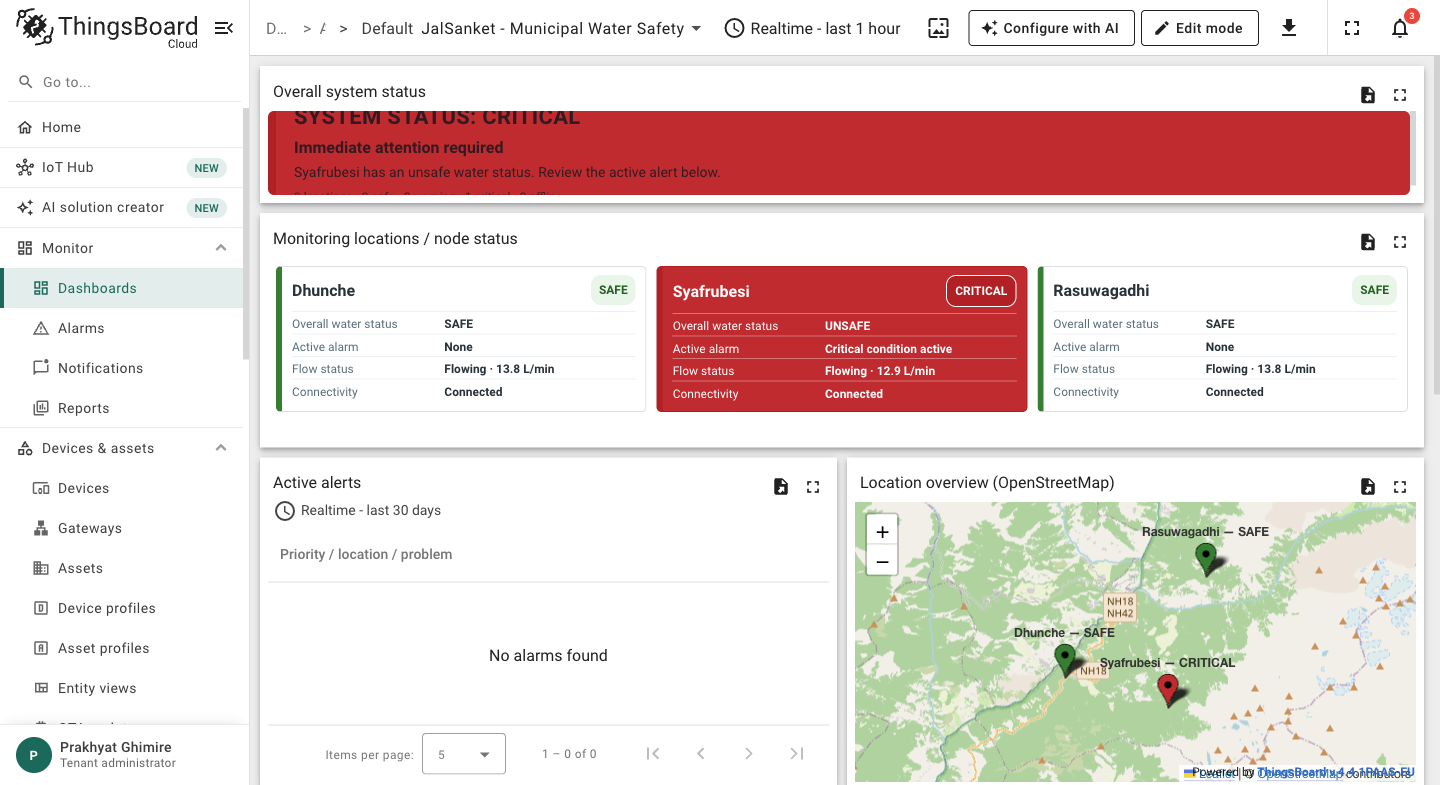
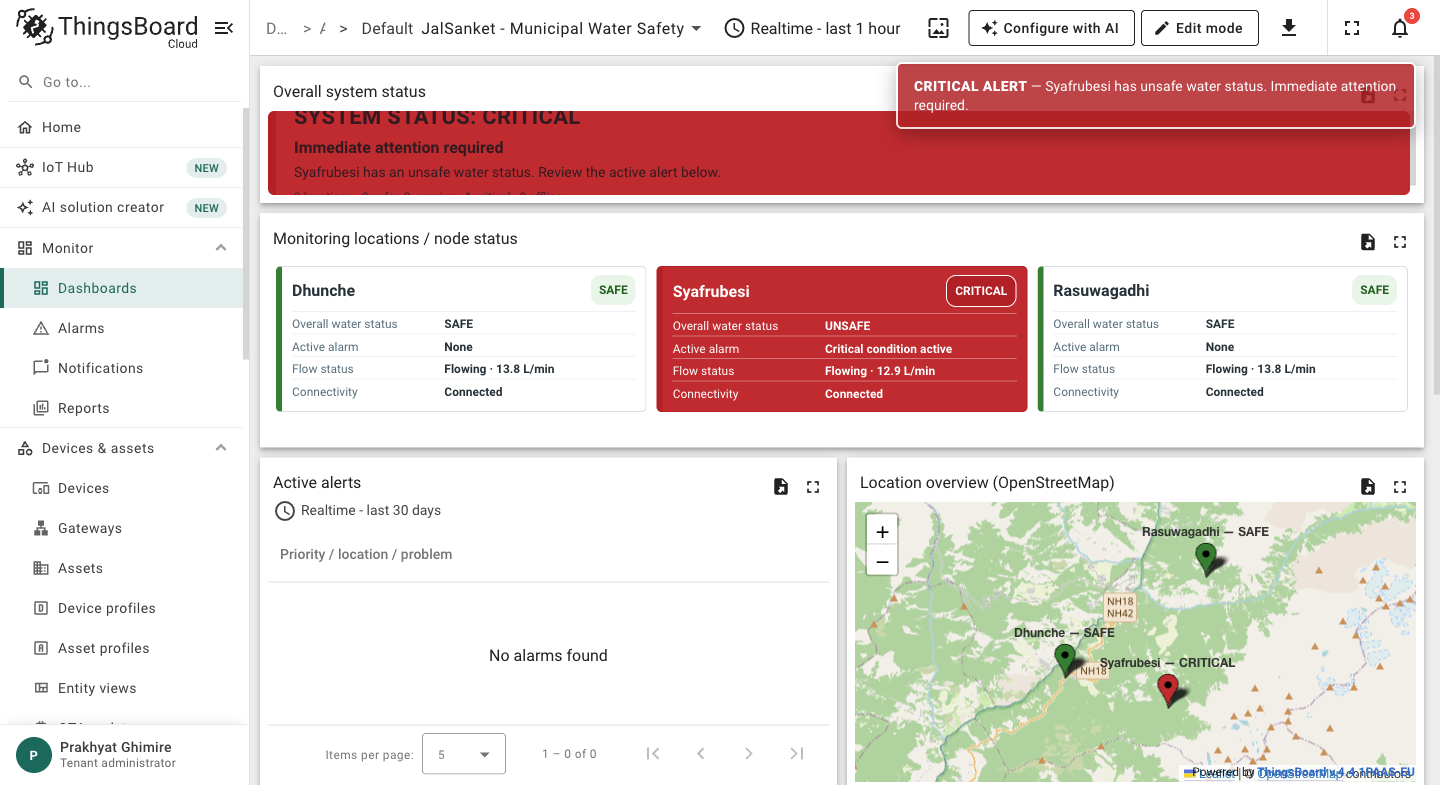
docs(dashboard): document critical alert overlay

Changed region(s): [[0.5938, 0.0611, 1.0, 0.1834]]

diff --git a/evidence/dashboard_ux_revision_report.md b/evidence/dashboard_ux_revision_report.md
@@ -14,7 +14,11 @@ Report date: 2026-11-25 (alignment and critical-colour revision applied)
 - Replaced the old text prompt (`summary`) and entities table (`fleet_health`)
   with two dynamic markdown cards:
   - `system_status` — overall SAFE / WARNING / CRITICAL / OFFLINE banner with a
-    one-line count of safe, warning, critical and offline locations.
+    one-line count of safe, warning, critical and offline locations. When any
+    location is CRITICAL it also renders a fixed, pulsing red `CRITICAL ALERT`
+    overlay naming the location and requiring immediate attention. This is a
+    non-blocking in-dashboard alert (`role="alert"`), not a repeated native
+    browser popup.
   - `node_status` — one card each for Dhunche, Syafrubesi and Rasuwagadhi showing
     only overall water status, active alarm, flow status and connectivity. The
     label/value rows use a fixed two-column grid so values line up across all
@@ -89,6 +93,9 @@ The final layout contains 13 widgets and no stale `summary`, `fleet_health`,
 - A CRITICAL node is unmistakable: its whole card and the overall banner turn
   solid red with white text and a red status pill. Data rows use a fixed
   label/value grid, so the same field lines up across all three location cards.
+- A CRITICAL condition also raises a visible `CRITICAL ALERT` overlay at the top
+  right of the dashboard, so it cannot be missed while scrolling. It appears
+  only while a critical condition exists and does not block the UI.
 - CRITICAL alerts sort above MAJOR/WARNING and get a stronger red badge;
   warnings use orange and informational alerts use blue.
 - The map marker for an unsafe location says `Syafrubesi — CRITICAL`, so the
@@ -102,12 +109,12 @@ The final layout contains 13 widgets and no stale `summary`, `fleet_health`,
 - `python3 -m compileall -q jalsanket *.py` — passed.
 - `verify_phase1.py`, `verify_phase2.py`, `verify_phase3.py`,
   `verify_metrics.py` — all passed; no backend regression.
-- `verify_phase4.py` — 121/121 checks passed, including the new UX assertions:
+- `verify_phase4.py` — 122/122 checks passed, including the new UX assertions:
   no stale widgets, hierarchy order, labelled status-card values, explicit
   severity words, aligned node-row columns, solid-red critical card CSS,
-  ACTIVE/sorted custom alert cell, map label function, nested gauge fonts with
-  `levelColors`, preserved fleet alias, valid timewindow, per-location chart
-  legends and human-readable gauge titles.
+  critical alert overlay, ACTIVE/sorted custom alert cell, map label function,
+  nested gauge fonts with `levelColors`, preserved fleet alias, valid
+  timewindow, per-location chart legends and human-readable gauge titles.
 - Live REST verification of dashboard `8626a700-...`: 13 expected widget ids,
   preserved alias id, dashboard timewindow unchanged, alert widget timewindow
   present, three location-named chart datasources, map functions present.
@@ -119,7 +126,10 @@ The final layout contains 13 widgets and no stale `summary`, `fleet_health`,
   connectivity were read from existing live values. No readings or alarms were
   invented. Computed styles confirmed the overall banner and the Syafrubesi card
   both use `rgb(198, 40, 40)` with white text, while the safe cards stay white;
-  node rows use a `144px 191px` label/value grid.
+  node rows use a `144px 191px` label/value grid. The live alert overlay rendered
+  as `CRITICAL ALERT — Syafrubesi has unsafe water status. Immediate attention
+  required.` with `position: fixed`, `z-index: 2147483000`, `role="alert"`,
+  background `rgb(183, 28, 28)` and no console errors.
 - Map coordinates verified from existing telemetry: Dhunche 28.1100/85.2900,
   Syafrubesi 28.0920/85.3610, Rasuwagadhi 28.1710/85.3870.
 - Active-alert widget was probed earlier with a real CRITICAL alarm and rendered
@@ -131,8 +141,11 @@ The final layout contains 13 widgets and no stale `summary`, `fleet_health`,
 
 ## 6. Screenshot paths
 
-- `evidence/screenshots/dashboard_ux_first_viewport.png` — status banner, three
-  location cards, active-alert area and map in the first screen.
+- `evidence/screenshots/dashboard_ux_first_viewport.png` — CRITICAL alert
+  overlay, status banner, three aligned location cards, active-alert area and
+  map in the first screen.
+- `evidence/screenshots/dashboard_ux_critical_alert.png` — dedicated capture of
+  the red critical overlay and red critical card.
 - `evidence/screenshots/dashboard_ux_alerts_map.png` — active alerts and the
   OpenStreetMap location overview with status-labelled markers.
 - `evidence/screenshots/dashboard_ux_measurements_trends.png` — gauges and the
@@ -154,6 +167,10 @@ The final layout contains 13 widgets and no stale `summary`, `fleet_health`,
   **label** (for example `Connectivity`, `Water status`, `Flow`), not the raw key
   name; the card functions accept both forms so the widget keeps human-readable
   internal labels.
+- A native `window.alert()` was deliberately not used: the markdown function
+  re-renders on each telemetry update, so a modal popup would repeat and block
+  the duty officer's browser. The fixed `role="alert"` overlay provides the same
+  "critical happened" signal without blocking navigation or requiring dismissal.
 - The Cloud JustGage descriptor requires `levelColors` and uses nested font
   objects (`titleFont`, `valueFont`, `minMaxFont`, `labelFont`); the previous flat
   font keys caused runtime widget errors and were removed.

diff --git a/README.md b/README.md
@@ -309,7 +309,10 @@ is safe, which location has a problem, how serious it is and what needs
 attention. The system banner and three location cards derive SAFE / WARNING /
 CRITICAL / OFFLINE from the existing `safetyStatus` and `active` attributes;
 the cards show only overall water status, active alarm, flow status and
-connectivity. Alerts come from the stock ACTIVE alarms table, sorted by severity
+connectivity. A CRITICAL condition turns the banner and affected card solid red
+and raises a fixed, pulsing `CRITICAL ALERT` overlay naming the location; this
+is an in-dashboard `role="alert"` message rather than a repeated native browser
+popup. Alerts come from the stock ACTIVE alarms table, sorted by severity
 and rendered as `Critical — Syafrubesi — Turbidity critically high (time)`.
 Map markers use the human-readable names Dhunche, Syafrubesi and Rasuwagadhi,
 include the status word, and are coloured by severity. Detailed gauges are
